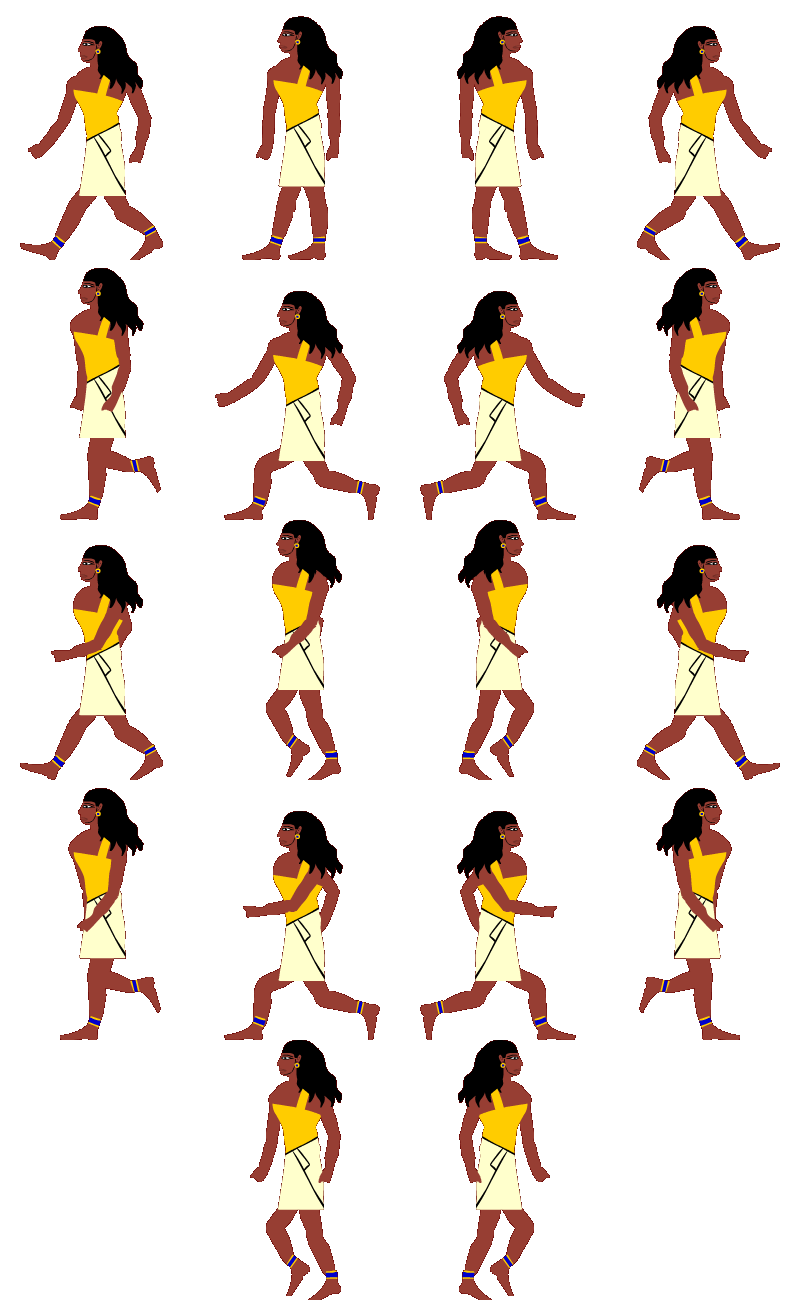
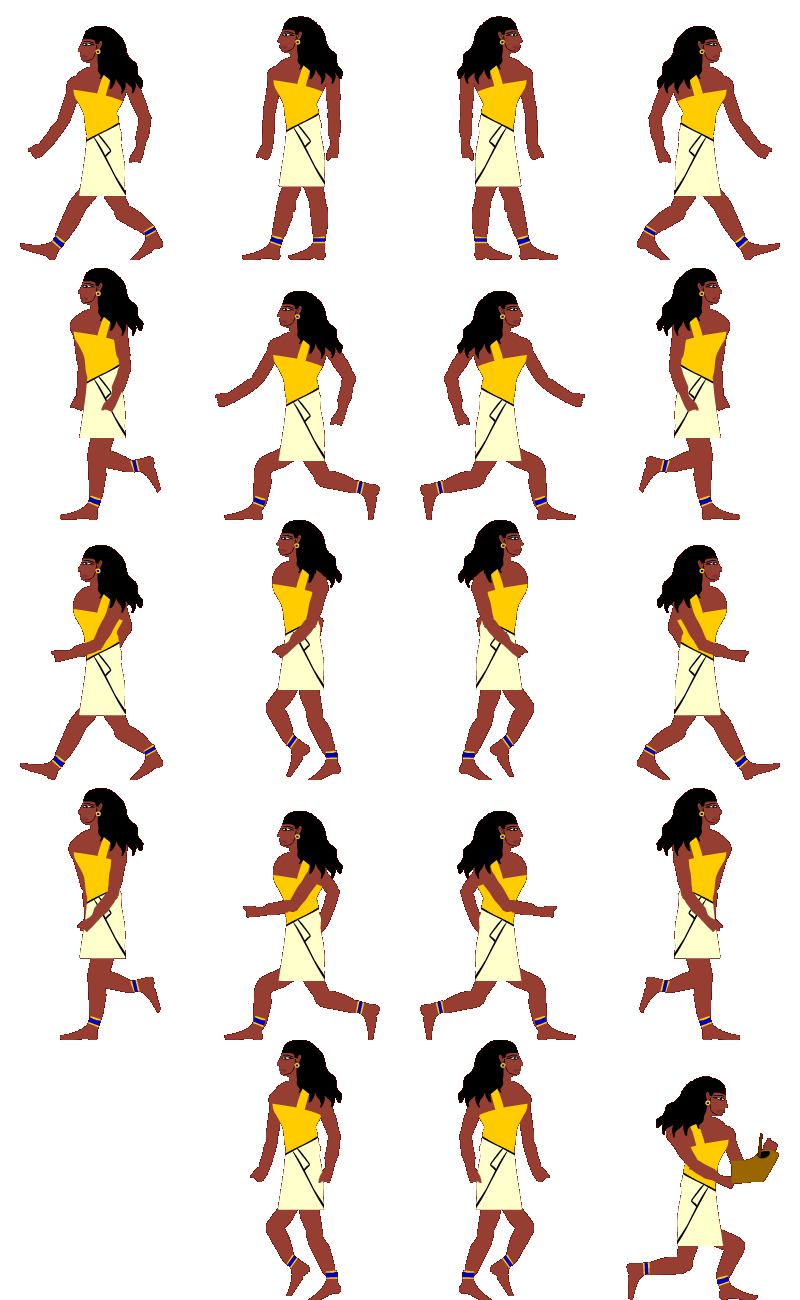
smonk

Changed region(s): [[0.7812, 0.8308, 0.9688, 1.0]]

diff --git a/js/boat.js b/js/boat.js
@@ -16,12 +16,23 @@ const boat = {
     animIdx: 0, freeMovement: true, yPos: 650, btnPos: 444,//gameIdx: 0, 
     selectingLocation: true, currentPos: 7, nextPos: 7, waterIdx: 0, 
     inDialogue: false, inChoice: false, isRowing: false, 
-    playerX: 500, playerDir: 0, honeyCache: [], 
+    isSmoking: false, smonkAnim: null, honeyCache: [], daysTravelled: 0, 
+    playerX: 500, playerDir: 0, 
     playerAnim: animHelpers.GetPlayerAnim(), rowAnim: animHelpers.GetAnim("row"), 
-    Setup: function() {
+    Setup: function(justSailed) {
         boat.selectingLocation = false;
-        boat.playerX = 500;
-        boat.playerDir = 0;
+        if(justSailed === true) {
+            boat.playerX = 450;
+            boat.playerDir = 1;
+            boat.Beeify(boat.daysTravelled);
+            player.currentDay += boat.daysTravelled;
+        } else {
+            boat.playerX = 500;
+            boat.playerDir = 0;
+        }
+        boat.isSmoking = false;
+        boat.daysTravelled = 0;
+        boat.smonkAnim = null;
         boat.InitialDraw();
         boat.animIdx = setInterval(boat.Animate, 30);
     },
@@ -58,7 +69,7 @@ const boat = {
         }
     },
     Animate: function() {
-        if(boat.inDialogue && !boat.isRowing) { return; }
+        if(boat.inDialogue && !(boat.isRowing || boat.isSmoking)) { return; }
         if(boat.selectingLocation) {
             gfx.ClearLayers(["menuA", "menutext"]);
             for(let i = 0; i < positions.length; i++) {
@@ -81,7 +92,8 @@ const boat = {
         } else {
             if(boat.isRowing) {
                 if(!boat.inDialogue) { // this shouldn't be in an animation handler but ehhhhhhhhh
-                    game.SwitchTo(land, positions[boat.nextPos][0]);
+                    // THIS IS WHAT HAPPENS WHEN YOU FINISH BOATING
+                    game.SwitchTo(boat, true);
                 }
                 gfx.ClearLayers(["characters", "menuC"]);
                 boat.rowAnim.SetMoving();
@@ -90,6 +102,25 @@ const boat = {
                 gfx.DrawSprite("water", 0, 0, (boat.waterIdx + boat.playerX) % 1920 + 1920, 650, "menuC", 1, true);
                 gfx.DrawSprite2("row", boat.rowAnim.GetFrame(0), 333, 799, "menuC");
                 gfx.DrawSprite("shore", 0, 0, boat.playerX, 680, "menuC", 1, true);
+            } else if(boat.isSmoking) {
+                if(!boat.inDialogue) { // im a rebel
+                    // THIS IS WHAT HAPPENS WHEN YOU FINISH SMOKING
+                    boat.isSmoking = false;
+                    boat.smonkAnim = null;
+                } else {
+                    gfx.ClearLayers(["characters", "menuC"]);
+                    gfx.DrawSprite("player", 3, 4, boat.playerX, boat.yPos, "characters");
+                    const honeyAmount = Math.round(2 * Math.random());
+                    for(let i = 0; i < honeyAmount; i++) {
+                        gfx.DrawSprite("honeycomb", 0, 0, 810 - Math.floor(80 * Math.random()), boat.yPos - 90 + Math.floor(80 * Math.random()), "characters", 0.5);
+                    }
+                    boat.smonkAnim.SetMoving();
+                    gfx.DrawSprite2("smoke", boat.smonkAnim.GetFrame(0), 760, boat.yPos - 10, "menuC");
+                    boat.waterIdx = (boat.waterIdx + 0.5) % 1920;
+                    gfx.DrawSprite("water", 0, 0, boat.waterIdx, 650, "menuC", 1, true);
+                    gfx.DrawSprite("water", 0, 0, boat.waterIdx - 1920, 650, "menuC", 1, true);
+                    gfx.DrawSprite("shore", 0, 0, 0, 680, "menuC", 1, true);
+                }
             } else {
                 gfx.ClearLayers(["characters", "menuA", "menuC", "menutext"]);
                 if(boat.playerX <= 265) {
@@ -150,6 +181,41 @@ const boat = {
         boat.InitialDraw(true);
         textHandler.ShowText("FUN FACT", funFact);
     },
+    Beeify: function(daysTravelled) {
+        let beeswaxCount = 0;
+        for(const nectar in player.nectarCache) {
+            let maxHoneys = daysTravelled / 3;
+            if(player.nectarCache[nectar] > 5) {
+                beeswaxCount++;
+                while(player.nectarCache[nectar] > 0 && maxHoneys > 0) {
+                    const amount = 5 + Math.ceil(15 * Math.random());
+                    if(player.nectarCache[nectar] >= 200 && Math.random() > 0.8) {
+                        player.nectarCache[nectar] -= 200;
+                        boat.honeyCache.push({ type: nectar, grade: 6 });
+                        maxHoneys -= 2;
+                        beeswaxCount += Math.ceil(5 * Math.random());
+                    } else if(player.nectarCache[nectar] >= amount) {
+                        player.nectarCache[nectar] -= amount;
+                        boat.honeyCache.push({ type: nectar, grade: 3 + Math.round(amount / 10) });
+                        maxHoneys--;
+                        beeswaxCount += Math.ceil(3 * Math.random());
+                    } else {
+                        if(player.nectarCache[nectar] >= 15) {
+                            boat.honeyCache.push({ type: nectar, grade: 3 });
+                        } else {
+                            boat.honeyCache.push({ type: nectar, grade: 2 });
+                        }
+                        player.nectarCache[nectar] = 0;
+                        beeswaxCount += Math.floor(2 * Math.random());
+                    }
+                }
+            } else {
+                player.nectarCache[nectar] = 0;
+                boat.honeyCache.push({ type: nectar, grade: 1 });
+            }
+        }
+        boat.honeyCache.push({ beeswax: true, amount: beeswaxCount });
+    },
     mouseMove: function() { },
     click: function() {
         if(boat.inDialogue) {
@@ -165,6 +231,7 @@ const boat = {
                 boat.InitialDraw();
             } else {
                 const dist = boat.GetDistance(boat.currentPos, boat.nextPos);
+                boat.daysTravelled = dist;
                 if(seasonHandler.IsInSeason(dist, boat.nextPos)) {
                     textHandler.ShowText("", "goToPlace", dist, positions[boat.nextPos][0]);
                 } else {
@@ -196,7 +263,25 @@ const boat = {
                 textHandler.ShowText("", "inventory");
             } else if(boat.playerX >= 620) { // Smoke
                 if(player.HasItem("incense")) {
-                    if(boat.honeyCache.length === 0) {
+                    if(boat.honeyCache.length > 0) {
+                        player.RemoveItem("incense");
+                        boat.isSmoking = true;
+                        boat.smokeIdx = 0;
+                        boat.smonkAnim = animHelpers.GetAnim("smonk");
+                        let honeyCount = 0, waxCount = 0;
+                        for(let i = 0; i < boat.honeyCache.length; i++) {
+                            const honey = boat.honeyCache[i];
+                            if(honey.beeswax === true) {
+                                waxCount += honey.amount;
+                                player.AddItem("beeswax", honey.amount);
+                            } else {
+                                honeyCount += 1;
+                                player.AddHoney(honey);
+                            }
+                        }
+                        textHandler.ShowText("", "smonk", honeyCount, waxCount);
+                        boat.honeyCache = [];
+                    } else {
                         let nectarCount = 0;
                         for(const key in player.nectarCache) {
                             nectarCount += player.nectarCache[key];
@@ -241,7 +326,7 @@ const boat = {
                 case player.controls.up: boat.nextPos = Math.max(0, boat.nextPos - 1); break;
                 case player.controls.down: boat.nextPos = Math.min(positions.length - 1, boat.nextPos + 1); break;
             }
-        } else {
+        } else if(!boat.isSmoking && !boat.inDialogue) {
             if(key === player.controls.right) {
                 if(boat.playerDir === 1) {
                     boat.playerX += 2;

diff --git a/js/land.js b/js/land.js
@@ -3,7 +3,8 @@ const land = {
     yPos: 780, btnPos: 444, xOffset: 500, maxX: 7678,
     playerX: 0, playerDir: 1, playerAnim: animHelpers.GetPlayerAnim(), 
     entities: [], target: null, flowering: false, 
-    inDialogue: false, inChoice: false, 
+    inDialogue: false, inChoice: false,
+    sawDropoff: false, sawGet: false, 
     bgMoved: true, // max x ~= 7678
     Setup: function(location, inSeason) {
         land.modernTimes = location.indexOf("Modern") === 0;
@@ -16,6 +17,8 @@ const land = {
         land.inChoice = false;
         land.playerX = 0;
         land.playerDir = 1;
+        land.sawDropoff = false;
+        land.sawGet = false;
         land.flowering = inSeason || false;
         land.cutscene = { active: false };
         land.maxX = maxX[location] || 7678;
@@ -92,7 +95,19 @@ const land = {
             } else if(e.sprite !== "") {
                 const sx = !land.flowering && e.rawsx !== undefined ? e.rawsx : (e.sx || e.dir);
                 gfx.DrawSprite(e.sprite, sx, e.sy || 0, e.x - land.playerX, land.yPos + (e.y ? e.y : 0), e.foreground === true ? "menuC" : "characters");
-                // TODO: draw bees if they have bees on them
+                if(e.hasBees && e.bees !== undefined) {
+                    for(let i = 0; i < e.bees.length; i++) {
+                        const b = e.bees[i];
+                        gfx.DrawSprite("bee", 0, 0, e.x + b.x - land.playerX, land.yPos + (e.y ? e.y : 0) + b.y, e.foreground === true ? "menuC" : "characters", 0.5);
+                        switch(b.i) {
+                            case 0: b.y--; break;
+                            case 1: b.x++; break;
+                            case 2: b.y++; break;
+                            case 3: b.x--; break;
+                        }
+                        b.i = (b.i + 1) % 4;
+                    }
+                }
             }
             const dist = Math.abs(e.x - land.playerX - land.xOffset);
             if(dist <= closestPos) { // if something's in range, make it interactable
@@ -140,7 +155,10 @@ const land = {
                         } else {
                             player.nectarCache[plantType] += nectar;
                         }
-                        textHandler.ShowText("", "beesCollected");
+                        if(!land.sawGet) {
+                            textHandler.ShowText("", "beesCollected");
+                            land.sawGet = true;
+                        }
                     } else {
                         textHandler.ShowText("", "beesTooSoon");
                     }
@@ -154,8 +172,12 @@ const land = {
                     player.RemoveItem("full beehive");
                     player.AddItem("empty beehive");
                     land.target.hasBees = true;
+                    land.InitializeBees(land.target);
                     land.target.beeTime = 0;
-                    textHandler.ShowText("", "beelease", land.target.name);
+                    if(!land.sawDropoff) {
+                        textHandler.ShowText("", "beelease", land.target.name);
+                        land.sawDropoff = true;
+                    }
                 } else {
                     textHandler.ShowText("", "nobees");
                 }
@@ -180,6 +202,20 @@ const land = {
             }
         } else if(land.target.type === "boat") {
             game.SwitchTo(boat);
+        }
+    },
+    InitializeBees: function(target) {
+        const beeY = target.beeY || 0;
+        const beeRadius = target.beeRadius || 25;
+        const beeDiameter = beeRadius * 2;
+        const numBees = Math.ceil(5 + Math.random() * beeRadius / 6);
+        target.bees = [];
+        for(let i = 0; i < numBees; i++) {
+            target.bees.push({
+                i: 0,
+                x: Math.round(beeRadius - beeDiameter * Math.random()),
+                y: beeY + Math.round(beeRadius - beeDiameter * Math.random())
+            });
         }
     },
     rightclick: function() {

diff --git a/js/text.js b/js/text.js
@@ -144,6 +144,7 @@ const texts = {
     "noIncense": "I don't have any incense. If I just reach into a beehive now, I'll get a lot of nasty stings! | But if I light some incense, the smoke will calm the bees enough for me to get the honeycombs! | I should find someone who will give me some incense in a trade.", 
     "noHoney": "The bees have not produced any honey yet. | Once bees have collected nectar from flowers by licking it up and storing it in a special stomach, they fly back to their hives and pass the nectar to another bee. | They will repeatedly pass the nectar from bee to bee until the partially digested nectar is ready to be stored in the honeycomb. After the nectar's chemical makeup has changed and it is stored in the honeycomb, bees will flap their wings like fans to help the water in the nectar evaporate. | After most of the water has evaporated, a bee will plug up the honeycomb with some liquid from their abdomen, which will harden into beeswax. | After that, the honeycomb can be opened to reveal the honey inside! | I should sail somewhere and give the bees some time to convert the nectar into honey.", 
     "noNectar": "The bees have not collected any nectar yet. | Bees help pollinate plants when they fly from flower to flower collecting nectar. As they're lapping up nectar, pollen from the flower sticks to them. | Flower pollen contains male gametes, which can fertilize other flowers when bees land on them. | Once a flower's ovule has been fertilized by a bee with pollen on it, seeds can be formed, so the plant can reproduce. | I should release some bees around some plants so they can collect some nectar.", 
+    "smonk": "Bee-autiful! I collected enough honeycomb to get me @arg jars of honey and @arg2 beeswax!",
 
     // People
     "amenken1": "Ah! Are you a beekeeper? Perhaps you can help me! | My master's boat has sprung a leak, and I need some beeswax to seal it up! | Can you provide me with 10 beeswax? I can give you 2 gold for it! | ?amenken1",

diff --git a/js/player.js b/js/player.js
@@ -6,7 +6,15 @@ let player = {
         "incense": 5
     }, 
     honeys: [], revealedFunFacts: [],
-    nectarCache: {}, 
+    nectarCache: {}, currentDay: 1,
+    AddItem: function(item, amount) {
+        amount = amount || 1;
+        if(player.inventory[item] === undefined) {
+            player.inventory[item] = amount;
+        } else {
+            player.inventory[item] += amount;
+        }
+    },
     HasItem: function(item, amount) {
         amount = amount || 1;
         if(player.inventory[item] === undefined) { return false; }
@@ -20,12 +28,32 @@ let player = {
             player.inventory[item] -= amount;
         }
     },
-    AddItem: function(item, amount) {
+    AddHoney: function(honey) {
+        player.honeys.push(honey);
+        player.AddItem("honey", 1);
+    },
+    HasHoney: function(type, grade, amount) {
         amount = amount || 1;
-        if(player.inventory[item] === undefined) {
-            player.inventory[item] = amount;
+        if(type === "any" && grade === 0) { return player.HasItem("honey", amount); }
+        return player.honeys.filter(e => (type === "any" || e.type === type) && e.grade >= grade).length >= amount;
+    },
+    RemoveHoney: function(type, grade, amount) {
+        amount = amount || 1;
+        player.RemoveItem("honey", amount);
+        if(type === "any" && grade === 0) {
+            for(let i = 0; i < amount; i++) {
+                player.honeys.pop();
+            }
         } else {
-            player.inventory[item] += amount;
+            let i = player.honeys.length - 1, remaining = amount;
+            while(i > 0 && remaining > 0) {
+                const honey = player.honeys[i];
+                if(honey.type === type && honey.grade >= grade) {
+                    player.honeys.splice(i, 1);
+                    remaining -= 1;
+                }
+                i -= 1;
+            }
         }
     },
 

diff --git a/js/things.js b/js/things.js
@@ -14,15 +14,16 @@ const things = {
     "wheat": { type: "observable", sprite: "plants", sx: 3, rawsx: 1, name: "Wheat", textRange: 2 },
     "barley": { type: "observable", sprite: "plants", sx: 4, rawsx: 0, name: "Barley", textRange: 1 },
     "papyrus": { type: "observable", sprite: "plants", sx: 5, rawsx: 1, name: "Papyrus", textRange: 3 },
-    
-    "flax": { type: "beeable", sprite: "plants", sx: 1, rawsx: 0, sy: 1, name: "Flax", textRange: 2 },
-    "date": { type: "beeable", sprite: "plantsBig", rawsx: 0, sx: 1, name: "Date Palm", textRange: 2 },
-    "pomegranate": { type: "beeable", sprite: "plantsBig", rawsx: 2, sx: 3, name: "Pomegranate Shrub", textRange: 2 },
+
+    "flax": { type: "beeable", sprite: "plants", sx: 1, rawsx: 0, sy: 1, name: "Flax", textRange: 2, beeY: -120 },
+    "date": { type: "beeable", sprite: "plantsBig", rawsx: 0, sx: 1, name: "Date Palm", textRange: 2, beeY: -280, beeRadius: 75 },
+    "pomegranate": { type: "beeable", sprite: "plantsBig", rawsx: 2, sx: 3, name: "Pomegranate Shrub", textRange: 2, beeY: -200, beeRadius: 50 },
     "bluelotus": { type: "beeable", sprite: "plantsSmall", rawsx: 0, sx: 1, name: "Blue Lotus", textRange: 2, foreground: true },
     "whitelotus": { type: "beeable", sprite: "plantsSmall", rawsx: 0, sx: 2, name: "White Lotus", textRange: 3, foreground: true },
     
     "fig": { type: "observable" }, // fig wasps
     "garlic": { type: "observable" }, // BAD FOR BEES!!!
+    "lettuce": { type: "observable" }, // to fuck good
     "melon": { type: "beeable" },
     "chrysanthemum": { type: "beeable" },
     "chamomile": { type: "beeable" },

diff --git a/js/jraphics.js b/js/jraphics.js
@@ -17,14 +17,16 @@ const sheetInfo = {
     "oar": { w: 308, h: 162 }, 
     "row": { w: 424, h: 294 }, 
     "paint": { w: 1024, h: 896 }, // https://commons.wikimedia.org/wiki/File:2011-02-11_Stucco_paint_texture.jpg
+    "bee": { w: 30, h: 30 },
     "plants": { w: 100, h: 200 },
     "plantsSmall": { w: 100, h: 100 },
     "plantsBig": { w: 200, h: 400 }, // https://en.wikipedia.org/wiki/File:Emblem_of_Saudi_Arabia.svg
-    
+    "smoke": { w: 256, h: 256 }, // https://opengameart.org/content/smoke-aura
+    "honeycomb": { w: 100, h: 54 }, // https://www.flickr.com/photos/30478819@N08/47933160963
+
     "pers": { w: 100, h: 225 }, // https://smarthistory.org/ancient-egypt/
     "map": { w: 1024, h: 896 }, // https://en.wikipedia.org/wiki/File:Egypt_1450_BC.svg https://pixabay.com/photos/paper-old-texture-parchment-1074131/
     "hive": { w: 100, h: 100 }, // https://www.beeculture.com/catch-buzz-worlds-oldest-beehives-farmed-israel-time-prophet-elisha/
-    "honeycomb": { w: 100, h: 54 }, // https://www.flickr.com/photos/30478819@N08/47933160963
     "beeswax": { w: 100, h: 77 }, // https://www.flickr.com/photos/64636759@N07/8511157727
     "justabox": { w: 200, h: 141 }, // https://www.nms.ac.uk/explore-our-collections/stories/world-cultures/ancient-egyptian-collection/ancient-egyptian-collection/box-of-amenhotep-ii
     "ladder": { w: 66, h: 200 } // https://www.fixfastusa.com/news-blog/history-of-the-ladder/

diff --git a/index.html b/index.html
@@ -3,9 +3,6 @@
         TODO: 
             put background behind text (especially on map)
             colorblind mode
-            -> MAKE NECTAR TURN INTO HONEY <-- DON'T SWITCH TO LAND AS SOON AS BOATING COMPLETES, JUST MAKE THE BEEHIVES LOOK PRETTY
-            -> MAKE SEASONS MEAN SOMETHING
-            -> IT'S PLANT TIME BABY
     -->
     <head>
         <style>
@@ -23,7 +20,6 @@
 			}
             canvas {
                 border: 1px solid black;
-                image-rendering: pixelated; /*crisp-edges*/
                 left: 0;
                 margin: 0 auto;
                 position: absolute;

diff --git a/js/anim.js b/js/anim.js
@@ -31,7 +31,9 @@ const animHelpers = {
     GetAnim: function(name) {
         if(name === "row") {
             return new Animation(0, [0, 0], [[1, 0], [0, 1], [1, 1], [0, 0]], 3);
+        } else if(name === "smonk") {
+            return new Animation(0, [0, 0], [[0, 0], [1, 0], [2, 0], [3, 0], [4, 0], [0, 1], [1, 1], [2, 1], [3, 1], [4, 1], [0, 2], [1, 2], [2, 2], [3, 2], [4, 2]]);
         }
         return new Animation(4, [0, 0], [[1, 1], [0, 2], [1, 2], [0, 3], [1, 3], [0, 4], [1, 0], [0, 1]]);
-    }
+    },
 };

diff --git a/js/main.js b/js/main.js
@@ -58,7 +58,7 @@ const game = {
     sheetsLoaded: function() {
         game.initListeners();
         game.currentInputHandler = land;
-        game.currentInputHandler.Setup("Testbench");
+        game.currentInputHandler.Setup("Testbench", true);
         //game.currentInputHandler.Setup("CutsceneThebes");
         //game.currentInputHandler.Setup("ModernCoffin");
     }
